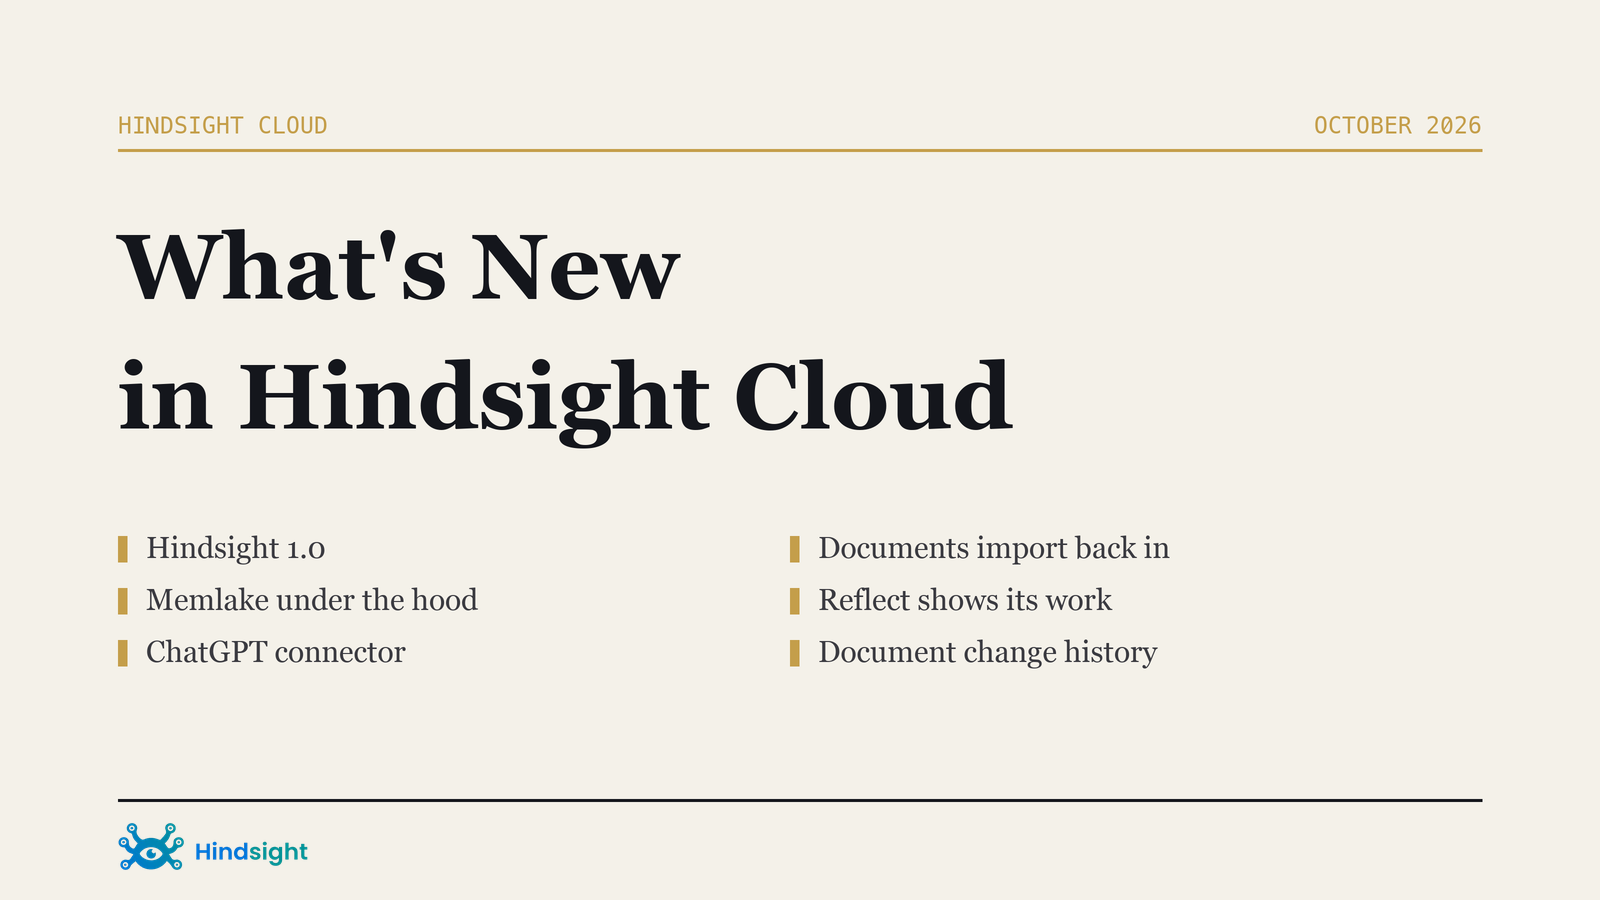
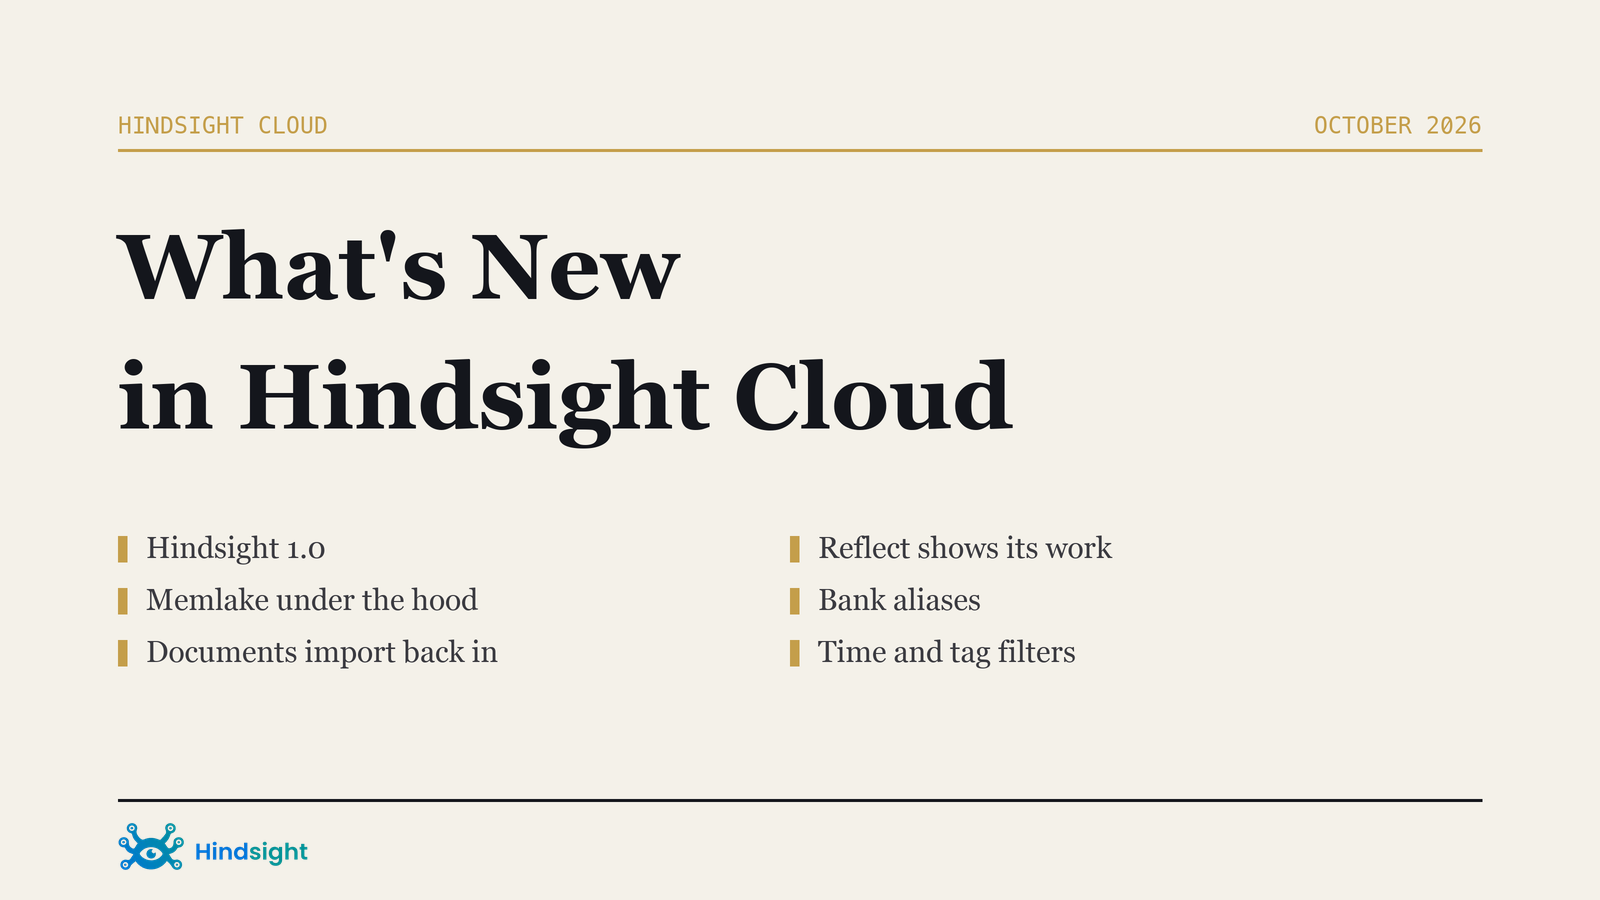
blog: cut the ChatGPT connector and the engine detail sections
The ChatGPT connector was a compat fix for MCP OAuth, not a new Cloud
feature, so it comes out; the member-approval and revocation changes
around connected clients are the real change there and keep a short
section of their own.

Drops "Fresh this week" and "Two behaviour changes to know about". Both
were engine-level detail aimed at a different reader than this series,
and the first was also announcing ahead of the Cloud docs.

Cover's feature list follows the sections that remain.

diff --git a/hindsight-docs/blog/2026-10-27-hindsight-cloud-october.md b/hindsight-docs/blog/2026-10-27-hindsight-cloud-october.md
@@ -3,13 +3,13 @@ title: "What's New in Hindsight Cloud: The API Is a Promise Now"
 authors: [benfrank241]
 slug: "2026/10/27/hindsight-cloud-october"
 date: 2026-10-27T15:00
-tags: [hindsight-cloud, release, memlake, mcp, reflect]
-description: "Hindsight hit 1.0, most of Cloud moved onto a new storage engine, ChatGPT can connect as a client, and a bank's documents now travel in and out as a zip."
+tags: [hindsight-cloud, release, memlake, reflect]
+description: "Hindsight hit 1.0, most of Cloud moved onto a new storage engine, a bank's documents now travel in and out as a zip, and reflect shows its work."
 image: /img/blog/hindsight-cloud-october.png
 hide_table_of_contents: true
 ---
 
-![What's new in Hindsight Cloud: Hindsight 1.0, Memlake under the hood, the ChatGPT connector, and document import](/img/blog/hindsight-cloud-october.png)
+![What's new in Hindsight Cloud: Hindsight 1.0, Memlake under the hood, document import, and reflect's evidence panel](/img/blog/hindsight-cloud-october.png)
 
 The most important thing that happened to Hindsight Cloud in the last five weeks is something you cannot see in the console, and that is the point.
 
@@ -23,11 +23,10 @@ Underneath it, a lot moved. Here is the rest.
 
 - **Hindsight 1.0.** The API is stable and stays that way.
 - **Memlake runs most of Cloud now.** A new storage engine, nothing to turn on.
-- **ChatGPT can connect to your banks** as a custom connector over MCP, and members can approve clients now, not just admins.
 - **A bank's documents travel both ways.** Export to a zip, import it back into the same bank or a different one, billed below the retain rate.
 - **Reflect shows its work**, and can rank a handbook above the chatter.
 - **A bank answers to more than one name.**
-- **Fresh this week:** every document carries a change history, and observations can group themselves by tags your client never sends.
+- **Members can approve AI clients**, and connections now end when access does.
 
 ## Memlake runs most of Cloud now
 
@@ -36,14 +35,6 @@ Underneath it, a lot moved. Here is the rest.
 Most of Hindsight Cloud already runs on it. Vectorize operates it, so there is nothing to enable, no migration to schedule and no setting to find. If you want the detail on how it works, the launch post has it, and [the Memlake docs](https://docs.hindsight.vectorize.io/enterprise/memlake) cover running it in your own cloud or data center with Hindsight Enterprise.
 
 This is the kind of change that only shows up as an absence: fewer slow queries on large banks, and headroom you do not have to think about.
-
-## ChatGPT can connect to your banks
-
-ChatGPT's custom connectors can now link to Hindsight Cloud over MCP. Add Hindsight as a connector, approve it once, and ChatGPT can retain and recall memories in your banks directly.
-
-Alongside it, **who** can approve a client changed. Organization owners can now let plain **members** approve MCP connections from clients like Claude, ChatGPT and Cursor, where before that was limited to owners and admins. Turn it on under **Settings** then **Connected AI clients (MCP)**.
-
-Two smaller fixes in the same area are worth knowing because they close real gaps. MCP connections now follow access: when someone leaves the organization, or loses the role that let them connect, their connections are revoked rather than quietly continuing to work. And signing in with SSO partway through an MCP connection now returns you to the approval screen instead of dumping you on the dashboard.
 
 ## A bank's documents travel both ways
 
@@ -73,6 +64,12 @@ Add an **alias** to a bank and requests to either id reach the same memories. Pr
 
 This makes renaming painless. Point new clients at the new name while existing ones keep working on the old one, with no downtime and nothing to move. API keys scoped to a bank work with that bank's aliases too. Owners and admins manage them on the bank's **Configuration** tab.
 
+## Who can connect an AI client
+
+Approving an AI client used to be limited to owners and admins. Organization owners can now let plain **members** approve MCP connections too, under **Settings** then **Connected AI clients (MCP)**.
+
+Connections also follow access now. When someone leaves the organization, or loses the role that let them connect, their connections are revoked rather than quietly continuing to work.
+
 ## Finding things in a large bank
 
 A run of smaller additions, all aimed at reading one slice of a bank instead of all of it:
@@ -85,30 +82,9 @@ A run of smaller additions, all aimed at reading one slice of a bank instead of 
 
 The memories and documents APIs also filter and sort by time on the server now, so a client no longer has to pull a page and sort it itself.
 
-## Fresh this week
-
-These shipped in the engine in the last few days and are live on Cloud ahead of the docs catching up.
-
-**Every document has a change history.** Observations in Hindsight are rebuilt, not versioned: when a fact is edited, appended to, re-retained or invalidated, the observations built on it are deleted and rebuilt. Until now that left no trace, so an observation you did not recognise was the end of the investigation. Now each document has a **History** tab in the console, and `GET /v1/default/banks/{bank_id}/documents/{document_id}/history`, listing every retain, append, reprocess, fact edit, invalidation, restore, delete and retag, and every consolidation run with the observations it created, updated and removed.
-
-Three limits are worth knowing. It is **reconstructed from your bank's async operations**, so it reaches back only as far as those operations are kept, and a change that ran without one is not in it: a **synchronous retain**, sent with `async=false`, leaves no trace, and neither does a fact edit, delete or retag made while auto-consolidation is off. It **starts when the feature arrives**, so earlier changes are not in it. And it is ids and counts rather than diffs, with each id list capped at 100.
-
-**Observations can group themselves.** A tag in `observation_scopes` can now be a glob, so `[["topic:*"]]` groups a memory by whatever `topic:` tags it happens to carry. That is the only way to do this when the tags are added during extraction and your client could not have known them when it sent the request. Banks also get `default_observation_scopes`, applied to every retain that sends none, so memories about the same subject consolidate together no matter which agent produced them, with no client change.
-
-One detail in the matching is deliberate and worth repeating: a scope whose globs match nothing is **dropped**, not kept as an empty scope, because the empty scope is the untagged bank-wide one. A memory your pattern missed must not silently become visible to everyone.
-
-**Three smaller ones.** Document search now covers a document's original text as well as its id, and tells you which of the two matched. Knowledge pages and mental models download as PDF or Markdown. And live API requests now take the next free model slot ahead of background work like async retain and consolidation, so a bank in the middle of consolidating no longer makes interactive recall feel slow.
-
-## Two behaviour changes to know about
-
-**A retain that returns no facts list is now an error.** When the model's reply came back without a top-level facts list, retain used to treat it as zero facts and report success. It now reports the malformed response as an error. If you have a dashboard counting successful retains, some of what it counted was never a retain, and you may see those surface as failures for the first time.
-
-**Bank imports validate ids.** An import now rejects an invalid bank id, and ids using the reserved underscore prefix. Worth checking any scripted import before your next run.
-
 ## Learn more
 
 - [Hindsight Memlake](https://hindsight.vectorize.io/blog/2026/10/13/memlake) on the storage engine behind most of Cloud
 - [What's New in Hindsight Cloud](https://docs.hindsight.vectorize.io/cloud/whats-new) for the running list, with every item dated
-- [MCP setup](https://docs.hindsight.vectorize.io/cloud/mcp) for connecting ChatGPT, Claude and Cursor
 - [Billing](https://docs.hindsight.vectorize.io/cloud/billing) for the import rate and the rest of the pricing card
 - [What's New in Hindsight Cloud: Memory That Reads Screenshots](https://hindsight.vectorize.io/blog/2026/09/21/hindsight-cloud-0-10-0) for the previous roundup
